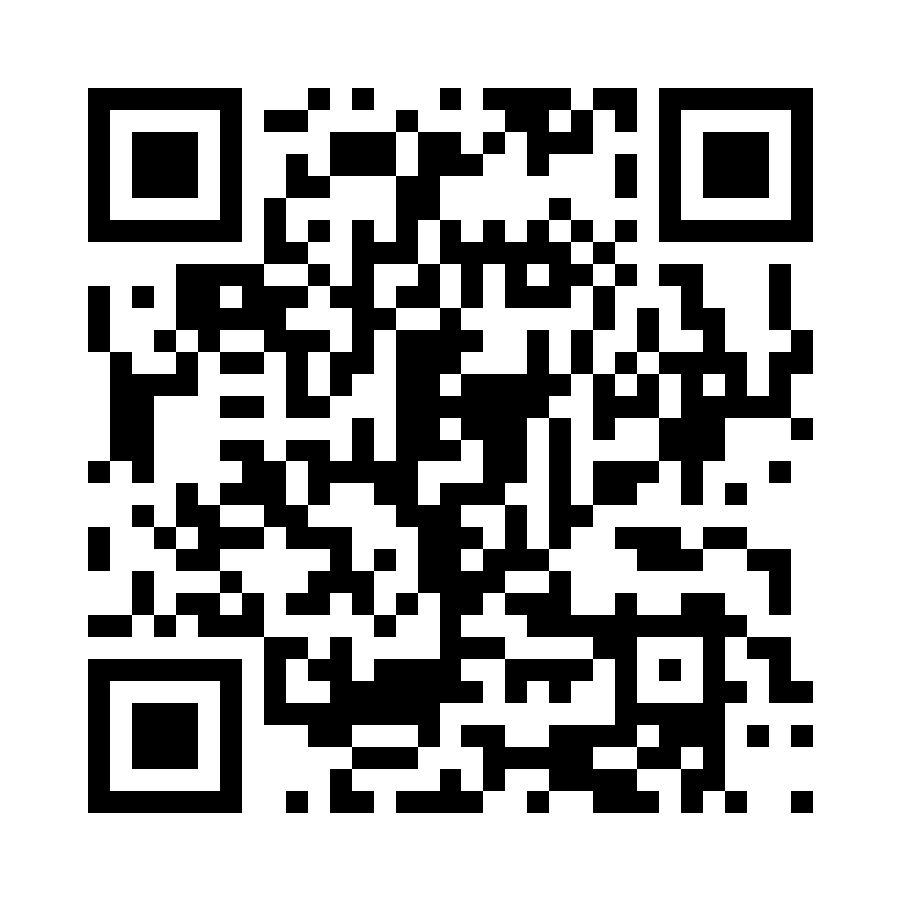
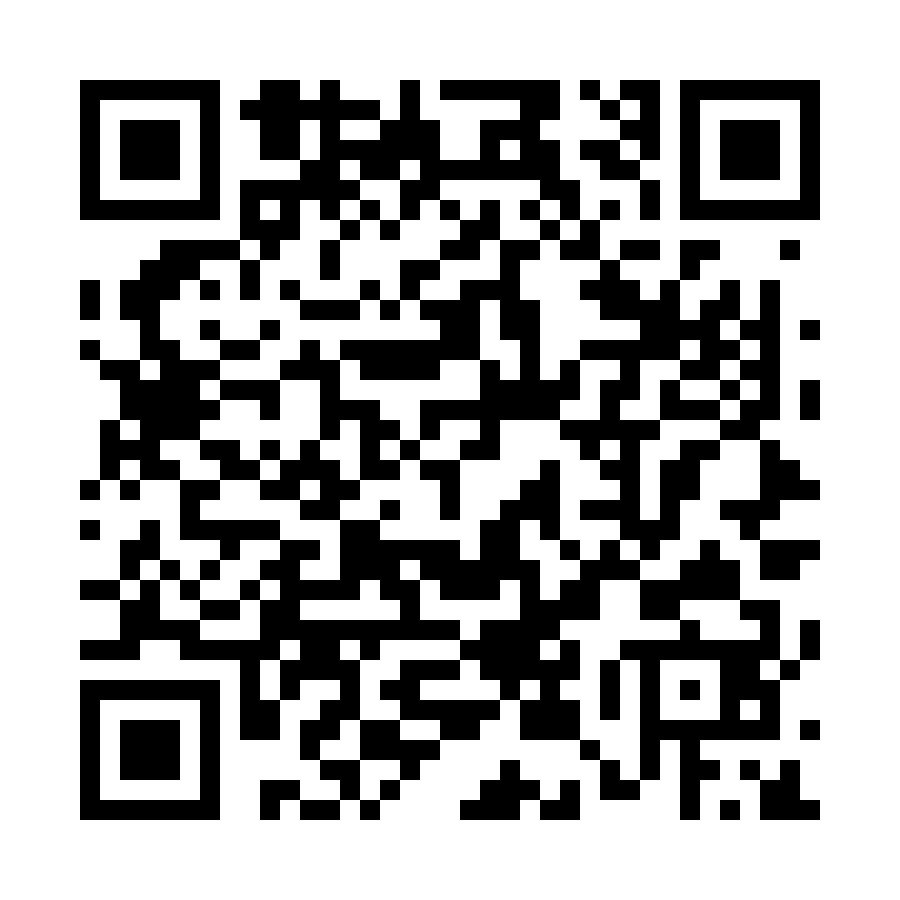
Add Vercel Web Analytics; correct the deploy URL everywhere
Analytics: one first-party script tag, not the npm @vercel/analytics package.
That package's `/next` entry point is a React component, and this app is a
single HTML file with an inline script -- no React, no build step. Installing
it would also add a package.json, which would make Vercel try to build a
project that has nothing to build.

The tag is cookieless and served from this origin rather than a third-party
domain, which is why brief §11 prefers it over Google Analytics for an app
used by kids under 13. It stays 404 until Web Analytics is enabled in the
Vercel project; a failed script load is not a JS error, so nothing breaks
either way.

URL correction: `baseball-iq.vercel.app` was already taken by a different
project (the Indiana Falcons 11U app), so Vercel assigned
`baseball-iq-sandy.vercel.app`. The committed QR code and flyer were pointing
at the wrong app. Both regenerated, and the URL corrected in CLAUDE.md and the
brief with a note not to link the un-suffixed host.

Verified: QR decodes to https://baseball-iq-sandy.vercel.app, full 6-out game
completes, career stats survive a hard reload, zero uncaught JS errors.

diff --git a/index.html b/index.html
@@ -1158,5 +1158,12 @@ document.addEventListener("keydown",e=>{
 document.addEventListener("touchstart",()=>SFX.init(),{once:true,passive:true});
 loadCareer();
 </script>
+<!-- Vercel Web Analytics. Served first-party from this origin (not a third-party
+     domain), cookieless, no persistent per-child identifier — which is why the
+     brief picks it over Google Analytics for a kids' app. See brief §11.
+     Needs Analytics enabled in the Vercel project or this 404s harmlessly.
+     NOT the npm @vercel/analytics package: that is a React component and this
+     app has no build step and no framework. -->
+<script defer src="/_vercel/insights/script.js"></script>
 </body>
 </html>

diff --git a/docs/qr-flyer.html b/docs/qr-flyer.html
@@ -41,8 +41,8 @@
   <h1>Baseball<br>IQ</h1>
   <p class="sub">Where's the play?</p>
   <p class="blurb">The ball comes to you. Look at the runners. Count the outs. Then tap where you throw it.</p>
-  <img src="qr.png" alt="QR code to baseball-iq.vercel.app">
-  <p class="url">baseball-iq.vercel.app</p>
+  <img src="qr.png" alt="QR code to baseball-iq-sandy.vercel.app">
+  <p class="url">baseball-iq-sandy.vercel.app</p>
   <p class="foot">Free. No app to download. Works without wifi.</p>
 </body>
 </html>

diff --git a/docs/BUILD_BRIEF.md b/docs/BUILD_BRIEF.md
@@ -5,7 +5,7 @@
 **Source material:** `legacy/baseball-iq-prototype.html` (working single-file prototype — this is the behavioral spec)
 
 > **Locked decisions — do not reopen.**
-> Name: **Baseball IQ**. URL: **`baseball-iq.vercel.app`** (Vercel free Hobby tier, no custom
+> Name: **Baseball IQ**. URL: **`baseball-iq-sandy.vercel.app`** (Vercel free Hobby tier, no custom
 > domain). Scope: a free tool for one Little League, not a commercial product. The name is
 > generic and may change if this outgrows the league — so it lives in **one constant**, never
 > hardcoded in markup (see §10).
@@ -137,11 +137,14 @@ here is a way for Phase 0 to fail at something that isn't the point. Vite arrive
    Confirm the score persists across a hard refresh. Confirm read-aloud works in Safari.
 6. Push to GitHub. Create the Vercel project named exactly `baseball-iq` so the assigned URL is
    `baseball-iq.vercel.app`. No framework preset — it's a static site.
+   **As built:** that project name was already taken by Alex's Indiana Falcons 11U app, so Vercel
+   assigned `baseball-iq-sandy.vercel.app`. That is the canonical URL. The un-suffixed host serves
+   a different app — never link to it.
 7. **Generate a QR code** for the live URL, committed as `docs/qr.png` plus a printable
    half-sheet PDF. This is how it actually gets distributed — taped in a dugout, handed out at a
    parent meeting. Nobody types a URL off a whiteboard.
 
-**Done when:** `baseball-iq.vercel.app` loads on a phone and an iPad, a full 9-out game is
+**Done when:** `baseball-iq-sandy.vercel.app` loads on a phone and an iPad, a full 9-out game is
 playable at every level, progress survives a refresh, and the QR code scans to it.
 
 **Explicitly out of scope for Phase 0:** modules, TypeScript, tests, a service worker,
@@ -334,7 +337,7 @@ Also assert all 3 options produce a field marker — a scenario where one choice
 
 ### 10.1 The decision
 
-**Name: Baseball IQ. URL: `baseball-iq.vercel.app`. No custom domain.**
+**Name: Baseball IQ. URL: `baseball-iq-sandy.vercel.app`. No custom domain.**
 
 Scope is one Little League. Nobody finds this through search — they get a link or scan a QR code
 from a coach. At that scope the name is a label, not a brand, and buying a domain is premature.

diff --git a/CLAUDE.md b/CLAUDE.md
@@ -10,7 +10,10 @@ zero dependencies. The `src/` module tree described in the brief arrives in Phas
 paths like `src/game/geometry.ts` are a target, not a location.
 
 ## Naming
-Name is "Baseball IQ", URL is baseball-iq.vercel.app. It is generic and may change.
+Name is "Baseball IQ", URL is **baseball-iq-sandy.vercel.app**. It is generic and may change.
+(`baseball-iq.vercel.app` was already taken by a different project of Alex's — the Indiana
+Falcons 11U app — so Vercel appended a suffix. Do not link to the un-suffixed host; it serves
+someone else's app.)
 In Phase 0 it is hardcoded in `<title>` and the `<h1>` — deliberately, because link-preview
 scrapers do not run JavaScript, and a texted link with no title breaks the main distribution
 channel. Phase 1 moves it to one `APP_NAME` constant injected at BUILD time, never at runtime.
